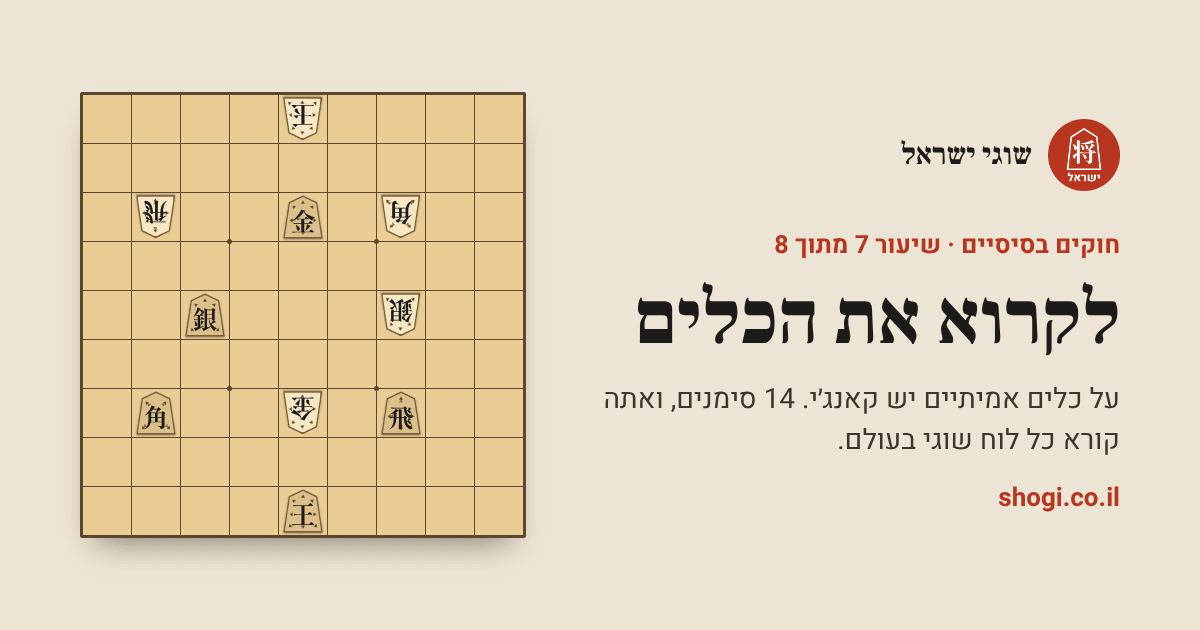
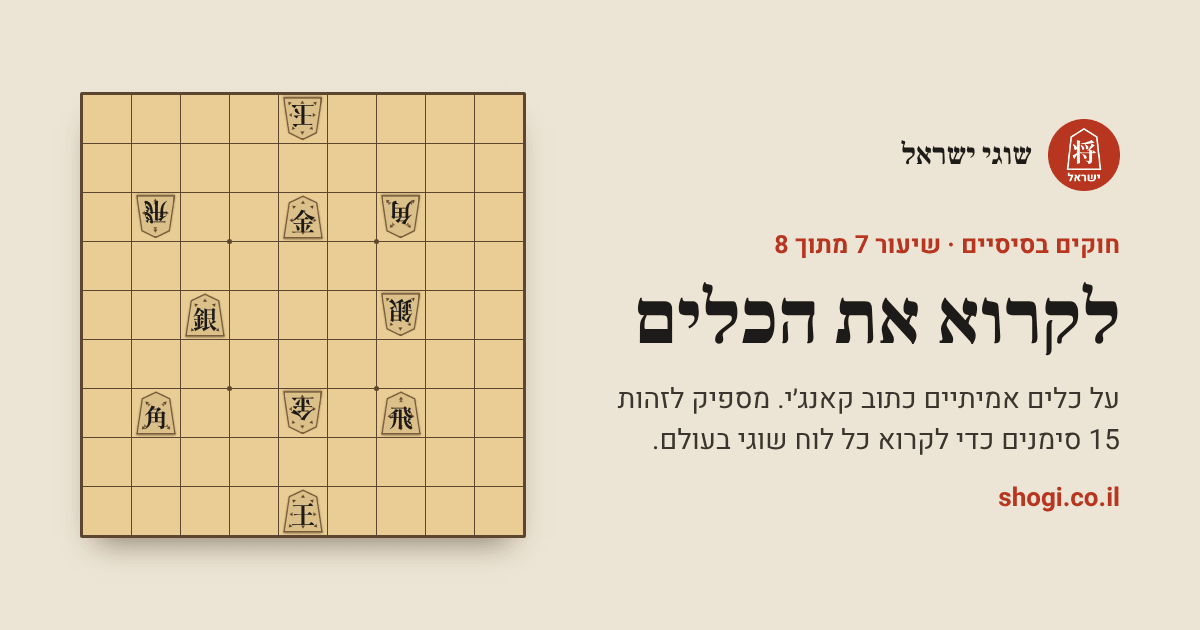
Fix lesson boards, notation direction and the full-game walkthrough

diff --git a/src/lib/curriculum.ts b/src/lib/curriculum.ts
@@ -80,7 +80,7 @@ export const CURRICULUM: Unit[] = [
       stage('knight', 'פרש', 'קופץ, אבל רק קדימה.', 4),
       stage('lance', 'רומח', 'נוסע ישר קדימה, בלי דרך חזרה.', 4),
       stage('bishop', 'רץ', 'נע באלכסון למרחק.', 5),
-      stage('rook', 'צריח', 'הכלי החזק במשחק.', 5),
+      stage('rook', 'צריח', 'אחד משני הכלים החזקים במשחק.', 5),
       stage('pawn', 'חייל', 'הקטן ביותר, ויש לכל צד תשעה.', 4),
       rules('02', '02-how-pieces-move', 'לקריאה: איך כל כלי זז', 'כל שמונת הכלים בשיעור אחד, עם הסבר למה כל אחד בנוי כך.', 15),
       rules('03', '03-promotion', 'לקריאה: הכתרה', 'למה כמעט כל כלי מתחזק כשהוא נכנס לשטח של היריב.'),
@@ -105,12 +105,12 @@ export const CURRICULUM: Unit[] = [
     why: 'כל מה שצריך למשחק אמיתי: איך מסדרים את הלוח, מתי משחק נגמר בתיקו, משחק שלם לצפייה, ומשחק ראשון משלך.',
     steps: [
       stage('setup', 'סידור הלוח', 'איך מעמידים את הכלים לפני משחק, בסדר המסורתי.', 8),
-      stage('repetition', 'חזרה על עמדה', 'מתי חזרה על עמדה היא תיקו, ומתי היא הפסד.', 5),
+      stage('repetition', 'חזרה מרובעת', 'מתי חזרה על עמדה היא תיקו, ומתי היא הפסד.', 5),
       rules('06', '06-illegal-moves-endings', 'לקריאה: מהלכים לא חוקיים ואיך משחק נגמר', 'מהלך לא חוקי מפסיד במקום. ועוד: כניעה, ומלך שחודר לשטח היריב.'),
       { id: 'try-game', kind: 'try', href: '/try/', title: '⟦צפה|צפי⟧ במשחק שלם', why: 'משחק אחד, מהלך אחרי מהלך: פתיחה, אמצע המשחק וסוף המשחק, עם הסבר לכל מהלך.', minutes: 10 },
       { id: 'play-first', kind: 'play', play: 1, title: 'משחק ראשון נגד המחשב', why: 'רמה 1 סלחנית. המטרה רק לסיים משחק שלם, לא לנצח.', minutes: 15 },
-      rules('07', '07-reading-pieces', 'לקריאה: לקרוא כלים אמיתיים', 'על כלים אמיתיים כתוב קאנג׳י. 14 סימנים, ⟦ואתה|ואת⟧ ⟦קורא|קוראת⟧ כל לוח בעולם.'),
-      rules('08', '08-reading-notation', 'לקריאה: רישום משחק', 'איך כותבים מהלכים, כדי לקרוא ספרים, בעיות ומשחקים מוקלטים.'),
+      rules('07', '07-reading-pieces', 'לקריאה: לקרוא כלים אמיתיים', 'על כלים אמיתיים כתוב קאנג׳י. מספיק לזהות 15 סימנים כדי לקרוא כל לוח שוגי בעולם.'),
+      rules('08', '08-reading-notation', 'לקריאה: רישום משחק', 'איך כותבים מהלכים, כדי לקרוא ספרים, בעיות מט ורישומי משחק.'),
     ],
   },
   {
@@ -158,13 +158,13 @@ export const CURRICULUM: Unit[] = [
   },
   {
     key: 'tsume', level: 'advanced', title: 'בעיות מט',
-    why: 'סוף המשחק הוא מירוץ למט, ובעיות מט הן האימון הישיר.',
+    why: 'סוף המשחק הוא מרוץ למט, ובעיות מט הן האימון הישיר.',
     steps: [
-      { id: 'read-endgame', kind: 'read', href: '/learn/guide/#endgame', title: 'סוף המשחק: מירוץ למט', why: 'למה בסוף המשחק אפשר לוותר על כלים כדי להגיע למט מהר יותר.', minutes: 3 },
+      { id: 'read-endgame', kind: 'read', href: '/learn/guide/#endgame', title: 'סוף המשחק: מרוץ למט', why: 'למה בסוף המשחק אפשר לוותר על כלים כדי להגיע למט מהר יותר.', minutes: 3 },
       { id: 'tsume-1', kind: 'tsume', tsume: 1, target: 20, title: 'בעיות מט במהלך אחד', why: '⟦פתור|פתרי⟧ 20, עד ⟦שאתה|שאת⟧ רואה מט במבט אחד.', minutes: 20 },
       { id: 'tsume-3', kind: 'tsume', tsume: 3, target: 10, title: 'בעיות מט ב־3 מהלכים', why: '⟦פתור|פתרי⟧ 10: שח, תשובה של המגן, ומט.', minutes: 25 },
       { id: 'tsume-5', kind: 'tsume', tsume: 5, target: 5, title: 'בעיות מט ב־5 מהלכים', why: '⟦פתור|פתרי⟧ 5. כאן מתחילות ההקרבות.', minutes: 25 },
-      { id: 'play-win', kind: 'play', play: 4, win: true, title: '⟦נצח|נצחי⟧ את המחשב ברמה 4', why: 'כל המסלול במשחק אחד: פתיחה, תוכנית, ומירוץ למט.', minutes: 30 },
+      { id: 'play-win', kind: 'play', play: 4, win: true, title: '⟦נצח|נצחי⟧ את המחשב ברמה 4', why: 'כל המסלול במשחק אחד: פתיחה, תוכנית, ומרוץ למט.', minutes: 30 },
       { id: 'tsume-7', kind: 'tsume', tsume: 7, target: 3, title: 'בעיות מט ב־7 מהלכים', why: 'לשחקנים עם ניסיון: ⟦פתור|פתרי⟧ 3.', minutes: 30, optional: ALL },
     ],
   },
@@ -205,7 +205,7 @@ export const CHESS_CURRICULUM: Unit[] = [
     steps: [
       main('learn-king', { title: 'המלך: חזרה מהירה', why: 'זז כמו בשחמט. ההבדל: אין הצרחה.', known: CHESS }),
       main('learn-bishop', { title: 'הרץ: חזרה מהירה', why: 'זז כמו בשחמט, ומתחזק כשהוא נכנס לשטח של היריב.', known: CHESS }),
-      main('learn-rook', { title: 'הצריח: חזרה מהירה', why: 'זז כמו בשחמט. בלי מלכה, הוא הכלי החזק במשחק.', known: CHESS }),
+      main('learn-rook', { title: 'הצריח: חזרה מהירה', why: 'זז כמו בשחמט. בלי מלכה, הוא והרץ הכלים החזקים במשחק.', known: CHESS }),
       main('learn-gold', { title: 'גנרל זהב', why: 'אין לו מקביל בשחמט: שומר הראש של המלך.' }),
       main('learn-silver', { title: 'גנרל כסף', why: 'דומה לזהב, אבל זז אחרת, וזה כל ההבדל.' }),
       main('learn-knight', { title: 'פרש', why: 'לא הפרש מהשחמט: קופץ רק קדימה, לשתי משבצות בלבד.' }),
@@ -252,7 +252,7 @@ export const CHESS_CURRICULUM: Unit[] = [
       main('try-game', { optional: CHESS }),
       { id: 'play-first-chess', kind: 'play', play: 3, title: 'משחק ראשון נגד המחשב, ברמה 3', why: 'רמה שמענישה טעויות, אבל אפשר לנצח בה. ניצחת? ⟦עלה|עלי⟧ רמה.', minutes: 20 },
       main('rules-07'),
-      main('rules-08', { why: 'כמו רישום שחמט, עם טור ושורה במספרים. כדי לקרוא ספרים, בעיות ומשחקים מוקלטים.' }),
+      main('rules-08', { why: 'כמו רישום שחמט, עם טור ושורה במספרים. כדי לקרוא ספרים, בעיות מט ורישומי משחק.' }),
     ],
   },
   {
@@ -272,7 +272,7 @@ export const CHESS_CURRICULUM: Unit[] = [
   },
   {
     key: 'chessTsume', level: 'advanced', title: 'בעיות מט',
-    why: 'כמו תרגילי טקטיקה בשחמט, רק שכל מהלך של התוקף הוא שח. סוף המשחק כאן הוא מירוץ למט, ובעיות מט הן האימון הישיר.',
+    why: 'כמו תרגילי טקטיקה בשחמט, רק שכל מהלך של התוקף הוא שח. סוף המשחק כאן הוא מרוץ למט, ובעיות מט הן האימון הישיר.',
     steps: ['read-endgame', 'tsume-1', 'tsume-3', 'tsume-5', 'play-win', 'tsume-7'].map((id) => main(id)),
   },
 ];

diff --git a/src/lib/first-game.ts b/src/lib/first-game.ts
@@ -32,7 +32,7 @@ export const PHASES: Phase[] = [
   {
     name: 'סוף המשחק',
     note: 'בסוף המשחק כבר לא חשוב מי לכד יותר כלים, אלא מי מהיר יותר: מי שנותן מט ראשון, מנצח. מעכשיו הפותח נותן שח בכל מהלך.',
-    recap: 'מירוץ למט: הפותח נותן שח בכל מהלך, וגנרל הזהב שהוא לכד חוזר ללוח ונותן את המט.',
+    recap: 'מרוץ למט: הפותח נותן שח בכל מהלך, וגנרל הזהב שהוא לכד חוזר ללוח ונותן את המט.',
     first: 23,
   },
 ];
@@ -59,13 +59,13 @@ export const FIRST_GAME: FirstGameMove[] = [
     text: 'הפותח מקדם את החייל עוד צעד, והוא עומד עכשיו ממש מול החייל של המשיב ומאיים ללכוד אותו.',
     why: 'חייל לוכד כלי שנמצא ישר לפניו. אם המשיב לא יעשה כלום, החייל שלו יילכד בתור הבא.' },
   { usi: '2c2d', title: 'לכידה: המשיב לוכד קודם',
-    text: 'החייל של המשיב לוכד את החייל של הפותח. הכלי שנלכד עובר למשיב ומחכה ביד שלו, מעל הלוח.',
+    text: 'החייל של המשיב לוכד את החייל של הפותח. הכלי שנלכד עובר למשיב ומחכה **ביד** שלו, מעל הלוח.',
     why: 'בשוגי כלי שנלכד לא נעלם: המשיב יוכל להחזיר אותו ללוח, והפעם הוא ישחק בשבילו.' },
   { usi: '2h2d', title: 'הצריח לוכד בחזרה',
     text: 'הצריח עולה בקו ישר ולוכד בחזרה את החייל של המשיב.',
-    why: 'כך הפותח לא מפסיד חייל: עכשיו לכל צד יש חייל ביד. לזה קוראים חילוף חיילים.' },
+    why: 'כך הפותח לא מפסיד חייל: עכשיו לכל צד יש חייל ביד. לזה קוראים **חילוף חיילים**.' },
   { usi: 'P*2c', title: 'הצנחה: כלי חוזר ללוח',
-    text: 'המשיב מצניח ללוח את החייל שלכד, ישר מול הצריח. הצנחה היא מהלך שבו מניחים כלי מהיד על משבצת ריקה, במקום להזיז כלי על הלוח.',
+    text: 'המשיב מצניח ללוח את החייל שלכד, ישר מול הצריח. **הצנחה** היא מהלך שבו מניחים כלי מהיד על משבצת ריקה, במקום להזיז כלי על הלוח.',
     why: 'הצריח איים ללכוד את הרץ של המשיב, והחייל חוסם לו את הדרך.' },
   { usi: '2d2f', title: 'הצריח נסוג',
     text: 'החייל החדש של המשיב מאיים ללכוד את הצריח, כי חייל לוכד קדימה. הפותח מחזיר את הצריח אחורה.',
@@ -93,7 +93,7 @@ export const FIRST_GAME: FirstGameMove[] = [
     text: 'הצריח לוכד את החייל ועומד שוב בצד של המשיב.',
     why: 'השורה שבה הוא עומד פתוחה, כמו כביש מהיר, עד החייל שמול המלך של המשיב.' },
   { usi: '6a5b', title: 'המשיב מגן על המלך',
-    text: 'הצריח יכול ללכוד את החייל שמול המלך ולתת שח: איום ישיר על המלך, שחייבים להגיב עליו מיד. לכן המשיב מזיז מראש גנרל זהב אל מול המלך.',
+    text: 'הצריח יכול ללכוד את החייל שמול המלך ולתת **שח**: איום ישיר על המלך, שחייבים להגיב עליו מיד. לכן המשיב מזיז מראש גנרל זהב אל מול המלך.',
     why: 'עכשיו, גם אם הצריח ילכוד את החייל, גנרל הזהב יעמוד בינו לבין המלך.' },
   { usi: '2d5d', title: 'הצריח לוכד חייל במרכז',
     text: 'הצריח לוכד בכל זאת את החייל שמול המלך. עכשיו הוא עומד מול גנרל הזהב, ויש לפותח שני חיילים ביד.',
@@ -102,7 +102,7 @@ export const FIRST_GAME: FirstGameMove[] = [
     text: 'גנרל הזהב צועד קדימה ומאיים ללכוד את הצריח. זה נראה מהלך טוב, אבל זו טעות: הגנרל נשאר בלי הגנה.',
     why: 'כלי שאף כלי לא מגן עליו אפשר ללכוד בחינם, והפותח מנצל את זה מיד.' },
   { usi: '5d5c+', title: 'הצריח לוכד גנרל, מוכתר ונותן שח!',
-    text: 'הצריח לוכד את גנרל הזהב, וכך נכנס לאזור ההכתרה: שלוש השורות הרחוקות ביותר, בצד של היריב. שם כלי יכול להתהפך ולהתחזק. צריח מוכתר נקרא דרקון {+R}: הוא נע כמו צריח, וגם צעד אחד באלכסון.',
+    text: 'הצריח לוכד את גנרל הזהב, וכך נכנס ל**אזור ההכתרה**: שלוש השורות הרחוקות ביותר, בצד של היריב. שם כלי יכול להתהפך ולהתחזק. צריח מוכתר נקרא **דרקון** {+R}: הוא נע כמו צריח, וגם צעד אחד באלכסון.',
     why: 'הדרקון נותן שח, ועכשיו יש לפותח גם גנרל זהב ביד.' },
   { usi: 'P*5b', title: 'המשיב חוסם בהצנחה',
     text: 'כדי להגן על המלך, המשיב מצניח חייל אל המשבצת שבין הדרקון למלך. השח נחסם.',
@@ -118,7 +118,7 @@ export const FIRST_GAME: FirstGameMove[] = [
 ];
 
 export const PIECE_TOKEN = /\{(\+?[KRBGSNLP])\}/g;
-export const plainText = (t: string): string => t.replace(PIECE_TOKEN, '').replace(/ {2,}/g, ' ').replace(/ ([,.:])/g, '$1');
+export const plainText = (t: string): string => t.replace(PIECE_TOKEN, '').replace(/\*\*/g, '').replace(/ {2,}/g, ' ').replace(/ ([,.:])/g, '$1');
 
 export type Tag = 'capture' | 'drop' | 'promotion' | 'check' | 'mate';
 export const TAG_LABEL: Record<Tag, string> = { capture: 'לכידה', drop: 'הצנחה', promotion: 'הכתרה', check: 'שח', mate: 'מט' };

diff --git a/src/scripts/watch-game.ts b/src/scripts/watch-game.ts
@@ -1,21 +1,42 @@
 import { Shogiground } from 'shogiground/shogiground';
 import { makeSquareName, parseUsi } from 'shogiops/util';
 import { FIRST_GAME, PHASES, PIECE_TOKEN, TAG_LABEL, firstGamePlies, plainText } from '../lib/first-game';
-import { markSeen } from '../lib/progress-local';
+import { hasAnyProgress, nextStep, stepHref } from '../lib/curriculum';
+import { LEVEL_COUNTS } from '../lib/level-counts';
+import { markSeen, readLocal } from '../lib/progress-local';
 import { playStep, preloadSounds } from '../learn/sound';
 import { liveBounds } from '../lib/live-bounds';
 import { SQUARE_RATIO } from '../lib/square-ratio';
 
-function setRich(el: HTMLElement, text: string): void {
-  const parts = text.split(PIECE_TOKEN);
-  el.replaceChildren(...parts.map((p, i) => {
+const BOLD = /\*\*(.+?)\*\*/;
+
+function chips(text: string): Node[] {
+  return text.split(PIECE_TOKEN).map((p, i) => {
     if (i % 2 === 0) return document.createTextNode(p);
     const chip = document.createElement('span');
     chip.className = 'pchip';
     chip.dataset.p = p;
     chip.setAttribute('aria-hidden', 'true');
     return chip;
+  });
+}
+
+function setRich(el: HTMLElement, text: string): void {
+  el.replaceChildren(...text.split(BOLD).flatMap((part, i) => {
+    if (i % 2 === 0) return chips(part);
+    const b = document.createElement('strong');
+    b.append(...chips(part));
+    return [b];
   }));
+}
+
+function courseForward(link: HTMLAnchorElement, label: HTMLElement): void {
+  const p = readLocal();
+  if (!hasAnyProgress(p)) return;
+  const n = nextStep(p, LEVEL_COUNTS);
+  const href = n ? stepHref(n.step, p, LEVEL_COUNTS) : '/course/';
+  link.href = href === location.pathname ? '/course/' : href;
+  label.textContent = 'לשלב הבא בקורס';
 }
 
 export function bootWatchGame(root: HTMLElement): void {
@@ -75,7 +96,10 @@ export function bootWatchGame(root: HTMLElement): void {
     panes.move.hidden = step === 0 || step > N;
     panes.summary.hidden = step <= N;
     root.dataset.step = step === 0 ? 'intro' : step > N ? 'summary' : 'move';
-    if (step === SUMMARY) markSeen('try-game');
+    if (step === SUMMARY) {
+      markSeen('try-game');
+      courseForward(q<HTMLAnchorElement>('[data-try-next]'), q('[data-try-next-label]'));
+    }
 
     if (step >= 1 && step <= N) {
       const m = FIRST_GAME[step - 1];
@@ -114,7 +138,7 @@ export function bootWatchGame(root: HTMLElement): void {
   back.addEventListener('click', () => show(step - 1));
   reset.addEventListener('click', () => { show(0); next.focus(); });
   q('[data-board]').addEventListener('keydown', (e) => {
-    const k: Record<string, number> = { ArrowRight: step + 1, ArrowLeft: step - 1, Home: 0, End: N };
+    const k: Record<string, number> = { ArrowLeft: step + 1, ArrowRight: step - 1, Home: 0, End: N };
     if (e.key in k) { e.preventDefault(); show(k[e.key]); }
   });
   show(0, false);

diff --git a/src/learn/stages/repetition.ts b/src/learn/stages/repetition.ts
@@ -2,13 +2,13 @@
 // Source: https://github.com/WandererXII/lila/blob/89aea5f6f24c5e941c7cac8434a6e9e1acc15e94/ui/learn/src/stages/repetition.ts
 // Copyright (c) 2019 onwards the li[shogi in sca]la authors.
 // Licensed under the GNU Affero General Public License v3.0 or later. See LICENSE.
-// Modified by Shogi Israel (shogi.co.il), 2026-10-27.
+// Modified by Shogi Israel (shogi.co.il), 2026-11-07.
 
 import { i18n } from '../i18n';
 import { scenarioFailure, scenarioSuccess } from '../assert';
-import type { IncompleteLevel, IncompleteStage } from '../interfaces';
+import type { IncompleteLevel, IncompleteStage, Level, UsiWithColor } from '../interfaces';
 import { createLevel } from '../level';
-import { concat, custom, onPly } from '../shapes';
+import { custom } from '../shapes';
 import { createScenario } from '../util';
 
 const digits = {
@@ -18,6 +18,8 @@ const digits = {
   four: `<svg class="rep-digit" viewBox="24 24 16 16" xmlns="http://www.w3.org/2000/svg"><circle cx="32" cy="32" r="30"/><path d="M33.7 48v-6.4H20v-5.3L34.5 16h5.4v20.2H44v5.4h-4.1V48h-6.2zm0-11.8V25.3L26 36.2h7.7z"/></svg>`,
 };
 
+const counter = (_l: Level, list: UsiWithColor[]) => [custom('5e', [digits.one, digits.two, digits.three, digits.four][Math.min(3, Math.floor(list.length / 4))])];
+
 const levels: IncompleteLevel[] = [
   {
     goal: i18n('learn:ifTheSamePositionOccurs'),
@@ -26,12 +28,7 @@ const levels: IncompleteLevel[] = [
     nbMoves: 12,
     success: scenarioSuccess,
     failure: scenarioFailure,
-    drawShapes: concat(
-      onPly(0, [custom('5e', digits.one)]),
-      onPly(4, [custom('5e', digits.two)]),
-      onPly(8, [custom('5e', digits.three)]),
-      onPly(12, [custom('5e', digits.four)]),
-    ),
+    drawShapes: counter,
     scenario: createScenario(
       [
         '9i8i',
@@ -58,6 +55,7 @@ const levels: IncompleteLevel[] = [
     nbMoves: 12,
     success: scenarioSuccess,
     failure: scenarioFailure,
+    drawShapes: counter,
     scenario: createScenario(
       [
         '9f8e',

diff --git a/src/learn/stages/setup.ts b/src/learn/stages/setup.ts
@@ -2,7 +2,7 @@
 // Source: https://github.com/WandererXII/lila/blob/89aea5f6f24c5e941c7cac8434a6e9e1acc15e94/ui/learn/src/stages/setup.ts
 // Copyright (c) 2019 onwards the li[shogi in sca]la authors.
 // Licensed under the GNU Affero General Public License v3.0 or later. See LICENSE.
-// Modified by Shogi Israel (shogi.co.il), 2026-10-27.
+// Modified by Shogi Israel (shogi.co.il), 2026-11-07.
 
 import { i18n } from '../i18n';
 import { pieceOn, scenarioFailure, scenarioSuccess } from '../assert';
@@ -44,8 +44,8 @@ const levels: IncompleteLevel[] = [
     nbMoves: 2,
     success: scenarioSuccess,
     failure: scenarioFailure,
-    drawShapes: initial([circle('7i')]),
-    scenario: createScenario(['S*7i', 'S*7a', 'S*3i', 'S*3a'], 'sente', true),
+    drawShapes: concat(initial([circle('7i')]), onPly(2, [circle('3i')])),
+    scenario: createScenario(['S*7i', 'S*3a', 'S*3i', 'S*7a'], 'sente', true),
   },
   {
     goal: i18n('learn:dropTheKnights'),
@@ -54,6 +54,7 @@ const levels: IncompleteLevel[] = [
     nbMoves: 2,
     success: scenarioSuccess,
     failure: scenarioFailure,
+    drawShapes: concat(initial([circle('8i')]), onPly(2, [circle('2i')])),
     scenario: createScenario(['N*8i', 'N*2a', 'N*2i', 'N*8a'], 'sente', true),
   },
   {
@@ -63,6 +64,7 @@ const levels: IncompleteLevel[] = [
     nbMoves: 2,
     success: scenarioSuccess,
     failure: scenarioFailure,
+    drawShapes: concat(initial([circle('9i')]), onPly(2, [circle('1i')])),
     scenario: createScenario(['L*9i', 'P*1c', 'L*1i', 'P*2c'], 'sente', true),
   },
   {
@@ -72,6 +74,7 @@ const levels: IncompleteLevel[] = [
     nbMoves: 2,
     success: scenarioSuccess,
     failure: scenarioFailure,
+    drawShapes: concat(initial([circle('8h')]), onPly(2, [circle('2h')])),
     scenario: createScenario(['B*8h', 'P*3c', 'R*2h', 'P*4c'], 'sente', true),
   },
   {

diff --git a/src/lib/og-cards.ts b/src/lib/og-cards.ts
@@ -45,8 +45,8 @@ const LESSON_SUB: Record<string, string> = {
   '04-drops': 'הכלל שהופך את שוגי למיוחד: כלי שלכדת נעשה שלך, ואפשר להחזיר אותו ללוח כמעט בכל מקום.',
   '05-check-mate': 'איך מנצחים: שח, שלוש דרכים לצאת ממנו, מט, והאיסור לתת מט בהצנחת חייל.',
   '06-illegal-moves-endings': 'מהלך לא חוקי מפסיד במקום. ועוד: כניעה, חזרה מרובעת, מלך חודר ושעון.',
-  '07-reading-pieces': 'על כלים אמיתיים יש קאנג׳י. 14 סימנים, ⟦ואתה|ואת⟧ ⟦קורא|קוראת⟧ כל לוח שוגי בעולם.',
-  '08-reading-notation': 'P-76, Bx22+, ▲7六歩: איך כותבים מהלכים, כדי לקרוא ספרים, בעיות ומשחקים.',
+  '07-reading-pieces': 'על כלים אמיתיים כתוב קאנג׳י. מספיק לזהות 15 סימנים כדי לקרוא כל לוח שוגי בעולם.',
+  '08-reading-notation': 'איך כותבים מהלכים בשוגי, כדי ⟦שתוכל|שתוכלי⟧ לקרוא ספרים, בעיות מט ורישומי משחק.',
 };
 
 const LINE_CATEGORIES = new Set(['openings', 'castles', 'strategy']);

diff --git a/src/styles/learn.css b/src/styles/learn.css
@@ -469,8 +469,8 @@ mark.learn-task {
 .learn__map .phase a, .learn__overlay .phase a { display: inline-block; padding: 2px 12px; border: 1px solid var(--rule); border-radius: 999px; color: var(--ink-2); text-decoration: none; }
 .learn__map .phase a:hover, .learn__overlay .phase a:hover { color: var(--seal); border-color: var(--seal); }
 
-.sg-wrap .sg-custom-svgs .rep-digit circle { fill: var(--seal); opacity: 0.85; }
-.sg-wrap .sg-custom-svgs .rep-digit path { fill: var(--on-seal); }
+.sg-wrap .sg-custom-svgs .rep-digit circle { fill: var(--ink); opacity: 0.85; }
+.sg-wrap .sg-custom-svgs .rep-digit path { fill: var(--washi); }
 
 .learn__map .course-level { display: flex; align-items: baseline; gap: 10px; margin: 36px 0 14px; font-size: 30px; font-weight: 800; color: var(--seal); }
 .learn__map .course-level:first-child { margin-top: 0; }

diff --git a/test/move-notation.test.ts b/test/move-notation.test.ts
@@ -28,6 +28,15 @@ test('lesson text converts every move and leaves other text alone', () => {
   expect(lessonMove('P-76', 'letters')).toBe('P-76');
 });
 
+test('lesson text in the English set writes captures with ×', () => {
+  expect(lessonMove('Bx22+', 'letters')).toBe('B×22+');
+  expect(lessonMove('S38x27+', 'letters')).toBe('S38×27+');
+  expect(lessonMove('G69-58', 'letters')).toBe('G69-58');
+  expect(lessonMove('S*55', 'letters')).toBe('S*55');
+  expect(lessonMove('+Rx28=', 'letters')).toBe('+R×28=');
+  expect(localMove('Bx22+', 'letters')).toBe('Bx22+');
+});
+
 test('lesson moves write the own king as 王 and the opponent king as 玉', () => {
   expect(lessonMove('K-48', 'kanji')).toBe('王-48');
   expect(lessonMove('K-42', 'kanji', true)).toBe('玉-42');

diff --git a/test/first-game.test.ts b/test/first-game.test.ts
@@ -67,5 +67,8 @@ describe('first game: nothing named before it is introduced', () => {
   test('piece marks are valid and stripped for screen readers', () => {
     for (const t of texts) for (const m of t.matchAll(/\{([^}]*)\}/g)) expect(m[1]).toMatch(/^\+?[KRBGSNLP]$/);
     expect(plainText('זה חייל {P}, הכלי')).toBe('זה חייל, הכלי');
+    for (const t of texts) expect((t.match(/\*\*/g) ?? []).length % 2, t).toBe(0);
+    expect(plainText('צריח מוכתר נקרא **דרקון** {+R}: הוא נע')).toBe('צריח מוכתר נקרא דרקון: הוא נע');
+    expect(plainText('נכנס ל**אזור ההכתרה**.')).toBe('נכנס לאזור ההכתרה.');
   });
 });

diff --git a/src/lib/move-notation.ts b/src/lib/move-notation.ts
@@ -28,7 +28,7 @@ function mapFor(set: PieceSet, lessons: boolean, opponent: boolean): Record<stri
 function convert(set: PieceSet, lessons: boolean, opponent = false) {
   const map = mapFor(set, lessons, opponent);
   return (whole: string, p: string, from: string | undefined, sep: string, to: string, end: string): string => {
-    if (!map) return whole;
+    if (!map) return lessons ? p + (from ?? '') + (sep === 'x' ? '×' : sep) + to + end : whole;
     return (map[p] ?? p) + (from ? `-${from}` : '') + (sep === 'x' ? '×' : sep) + to + end;
   };
 }
